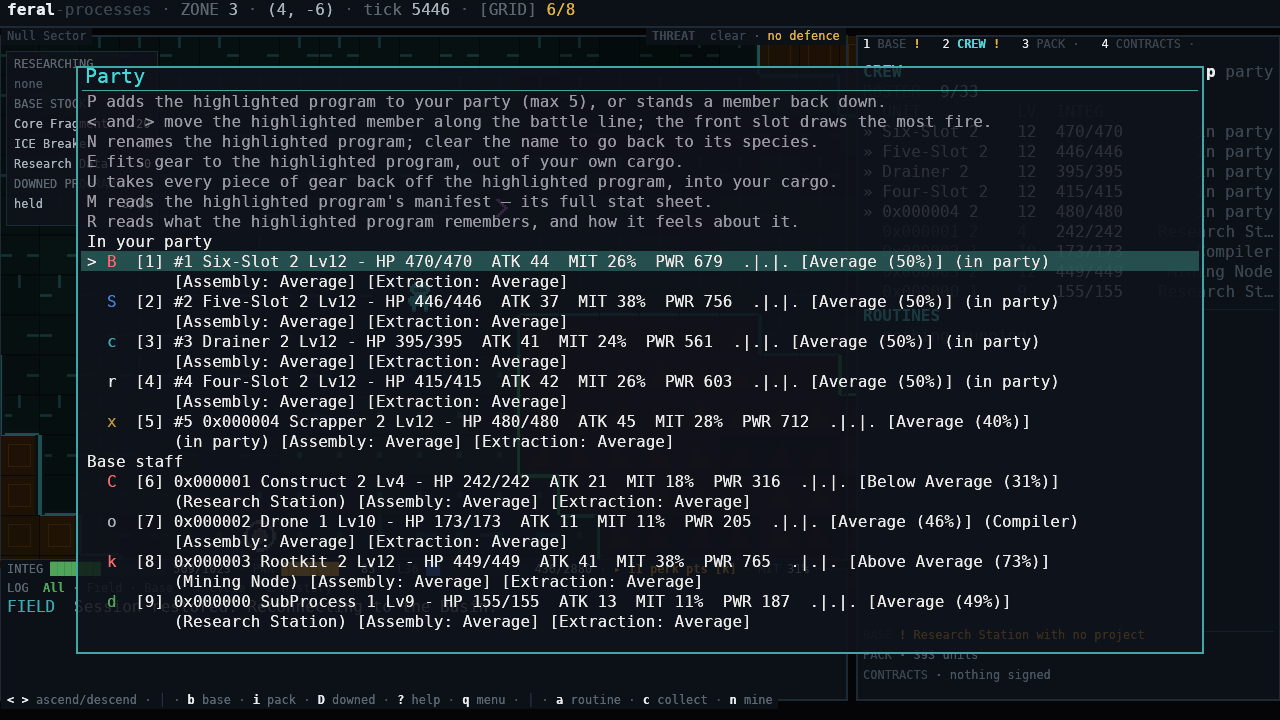
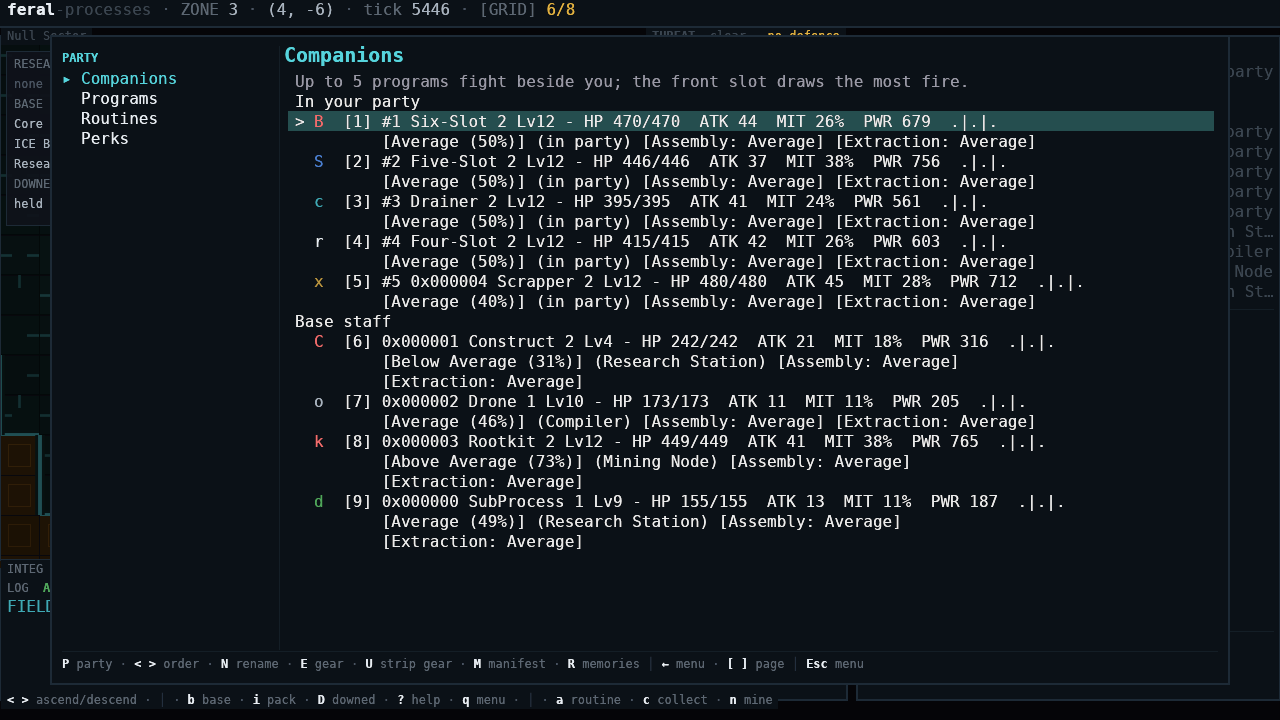
Site: v0.18.32, re-derived content counts, p opens the party hub, new roster shot

diff --git a/index.html b/index.html
@@ -331,7 +331,7 @@ footer{border-top:1px solid var(--line-soft);padding:64px 0 48px;background:#090
 <header class="hero">
   <div class="wrap">
     <div class="eyebrow">
-      <b>v0.15.6</b><i class="dot"></i>Rust<i class="dot"></i>Single-player<i class="dot shed"></i><span class="shed">Moddable</span>
+      <b>v0.18.32</b><i class="dot"></i>Rust<i class="dot"></i>Single-player<i class="dot shed"></i><span class="shed">Moddable</span>
     </div>
 
     <h1>Feral&nbsp;Processes</h1>
@@ -460,11 +460,11 @@ footer{border-top:1px solid var(--line-soft);padding:64px 0 48px;background:#090
 
     <div style="margin-top:56px">
       <div class="stats">
-        <div class="stat"><b>17</b><span>Species</span></div>
-        <div class="stat"><b>105</b><span>Routines</span></div>
-        <div class="stat"><b>75</b><span>Items</span></div>
-        <div class="stat"><b>44</b><span>Structures</span></div>
-        <div class="stat"><b>48</b><span>Contracts</span></div>
+        <div class="stat"><b>19</b><span>Species</span></div>
+        <div class="stat"><b>107</b><span>Routines</span></div>
+        <div class="stat"><b>82</b><span>Items</span></div>
+        <div class="stat"><b>50</b><span>Structures</span></div>
+        <div class="stat"><b>50</b><span>Contracts</span></div>
         <div class="stat"><b>8</b><span>Classes</span></div>
         <div class="stat"><b>23</b><span>Gear affixes</span></div>
         <div class="stat"><b>22</b><span>Perks</span></div>
@@ -802,8 +802,9 @@ footer{border-top:1px solid var(--line-soft);padding:64px 0 48px;background:#090
 <pre><span class="p">?</span>      in-game manual
 <span class="p">1 2 3</span>  base, crew and inventory panels
 <span class="p">4</span>      contracts
-<span class="p">b</span>      base menu  <span class="c">(staff, research, work orders)</span>
-<span class="p">p</span>      party menu  <span class="c">(roster, routines, perks)</span>
+<span class="p">b</span>      base report  <span class="c">(build, research, staff)</span>
+<span class="p">p</span>      party  <span class="c">(roster, programs, routines, perks)</span>
+<span class="p">i</span>      inventory
 <span class="p">D</span>      downed programs</pre>
         </div>
       </div>
@@ -931,7 +932,7 @@ footer{border-top:1px solid var(--line-soft);padding:64px 0 48px;background:#090
     </div>
 
     <div class="foot-bottom">
-      <span>feral-processes v0.15.6</span>
+      <span>feral-processes v0.18.32</span>
       <span>Rust · Bevy · single-player</span>
     </div>
   </div>

diff --git a/README.md b/README.md
@@ -31,7 +31,7 @@ cargo run -- --template <name> --keys "<keys>" --screenshot out.png
 | `manifest.png` | `--template bonds --keys "p Enter M"` |
 | `report-overview.png` | `--template chains --keys "B"` |
 | `memories.png` | `--template bonds --keys "p Enter R"` |
-| `roster.png` | `--template bonds --keys "p Enter"` |
+| `roster.png` | `--template bonds --keys "p Enter"` (party, Companions page) |
 | `downed.png` | `--template bonds --keys "D"` (inventory, Downed programs page) |
 | `inventory.png` | `--template bonds --keys "i Right"` (inventory, Items page) |
 | `towns.png` | `--template settlements` |
@@ -64,8 +64,8 @@ done
 grep -m1 '^version' Cargo.toml
 ```
 
-The counts on the page as of v0.15.6: 17 species, 105 routines, 75 items,
-44 structures, 48 contracts, 8 classes, 23 affixes, 22 perks.
+The counts on the page as of v0.18.32: 19 species, 107 routines, 82 items,
+50 structures, 50 contracts, 8 classes, 23 affixes, 22 perks.
 
 The root `README.md` on `main` is carved out of the doc-update obligation and is
 already stale on several of these; do not copy its numbers. `docs/manual.md` is
